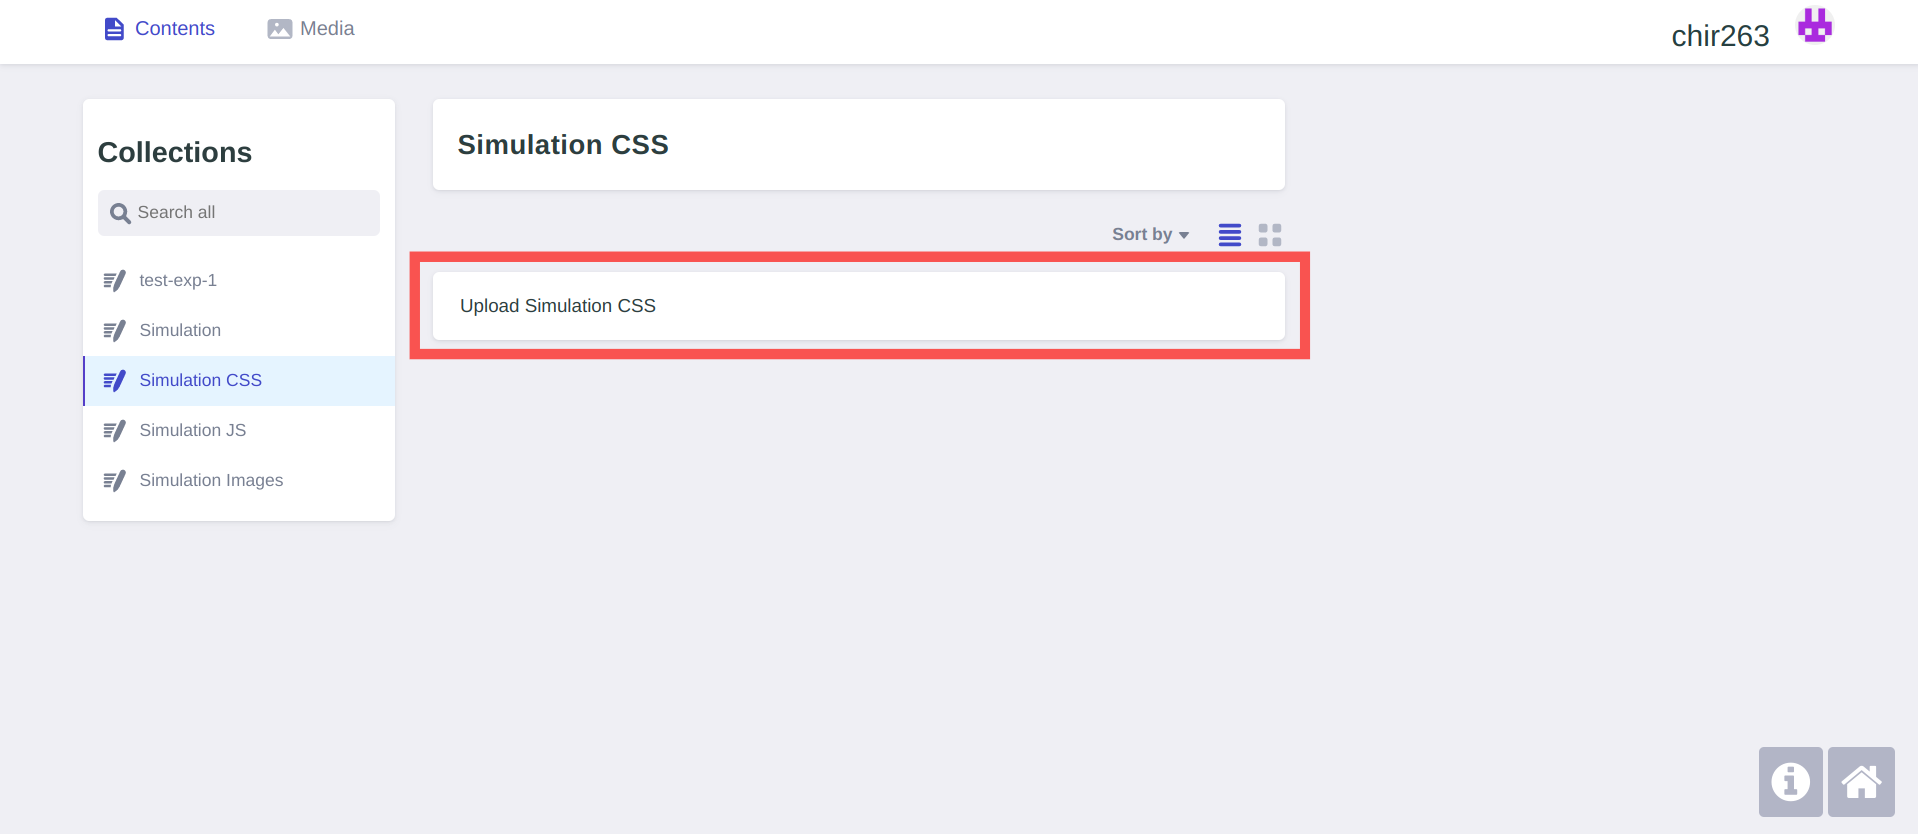
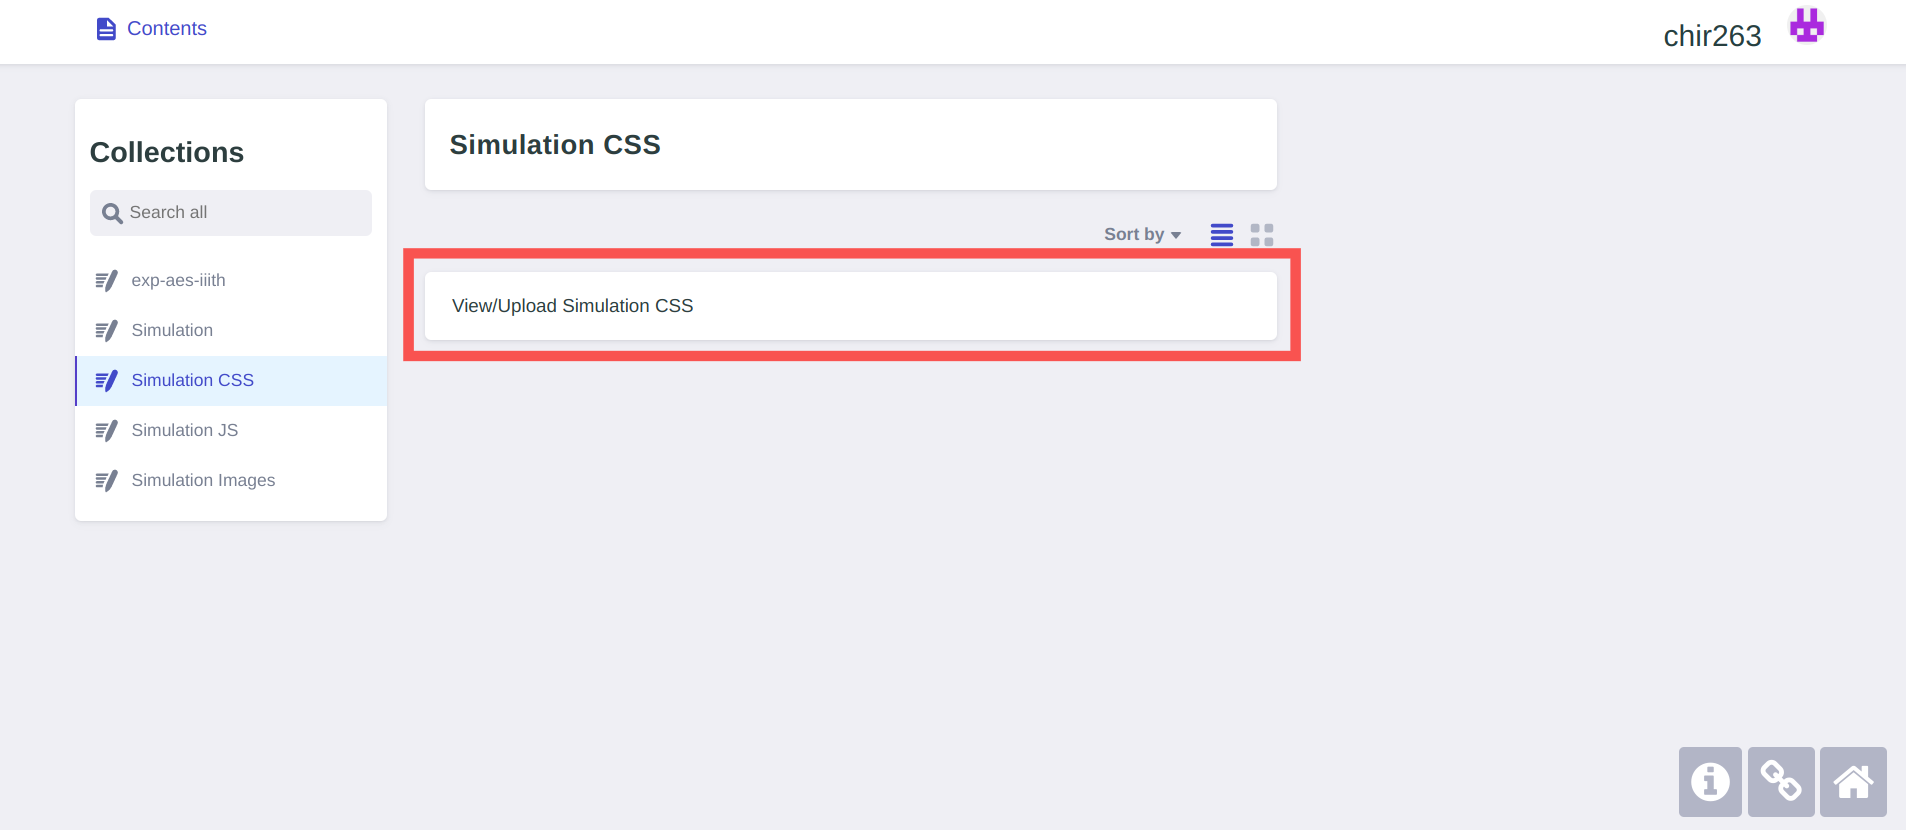
cms

diff --git a/help/markdown/simulation.md b/help/markdown/simulation.md
@@ -18,19 +18,13 @@ To upload simulation files, follow these steps:
 
 2. Select Tab: Click on the tab that corresponds to the type of file you want to upload. For example, if you want to upload a CSS file for the simulation, click on the **Simulation CSS** tab.
 
-3. Upload Card: In the center of the page, you will find a card labeled "**Upload Simulation CSS**" (replace "Simulation CSS" with the appropriate tab name). Click on this card to open the upload screen.
+3. Upload Card: In the center of the page, you will find a card labeled "**View/Upload Simulation CSS**" (replace "Simulation CSS" with the appropriate tab name). Click on this card to open the upload screen.
 
 <img src="/help/img/sim-2.png" width="800" height="350"/>
 
-4. File List Widget: The upload screen will display a file list widget. This widget shows the files currently present in the selected folder.
-
-5. Add File: To add a new file, click on the "**Add File +**" button in the file list widget. This will add a new file widget to the list.
+4. Media Asset Pane: This will open the **Media Asset** pane, which is linked to the respective folder (simulation, simulation/css, simulation/js, or simulation/images). The **Media Asset** pane provides options for managing your files.
 
 <img src="/help/img/sim-3.png" width="800" height="350"/>
-
-6. Media Asset Pane: Click on the **Choose a file** in the file widget that you just added. This will open the **Media Asset** pane, which is linked to the respective folder (simulation, simulation/css, simulation/js, or simulation/images). The **Media Asset** pane provides options for managing your files.
-
-<img src="/help/img/sim-4.png" width="800" height="350"/>
 
 7. Upload File: In the **Media Asset** pane, click on the **Upload** button to select a file from your local system and upload it to the corresponding folder.
 
@@ -38,7 +32,7 @@ To upload simulation files, follow these steps:
 
 9. Publishing Changes: After you have uploaded the simulation files, make sure to click on the **Publish** button to save your changes and make them available for users to access.
 
-<img src="/help/img/sim-5.png" width="800" height="350"/>
+<img src="/help/img/sim-4.png" width="800" height="350"/>
 
 Repeat these steps for each file you want to upload, ensuring that you select the appropriate tab and follow the same process for each file type (HTML, CSS, JS, or images).
 
